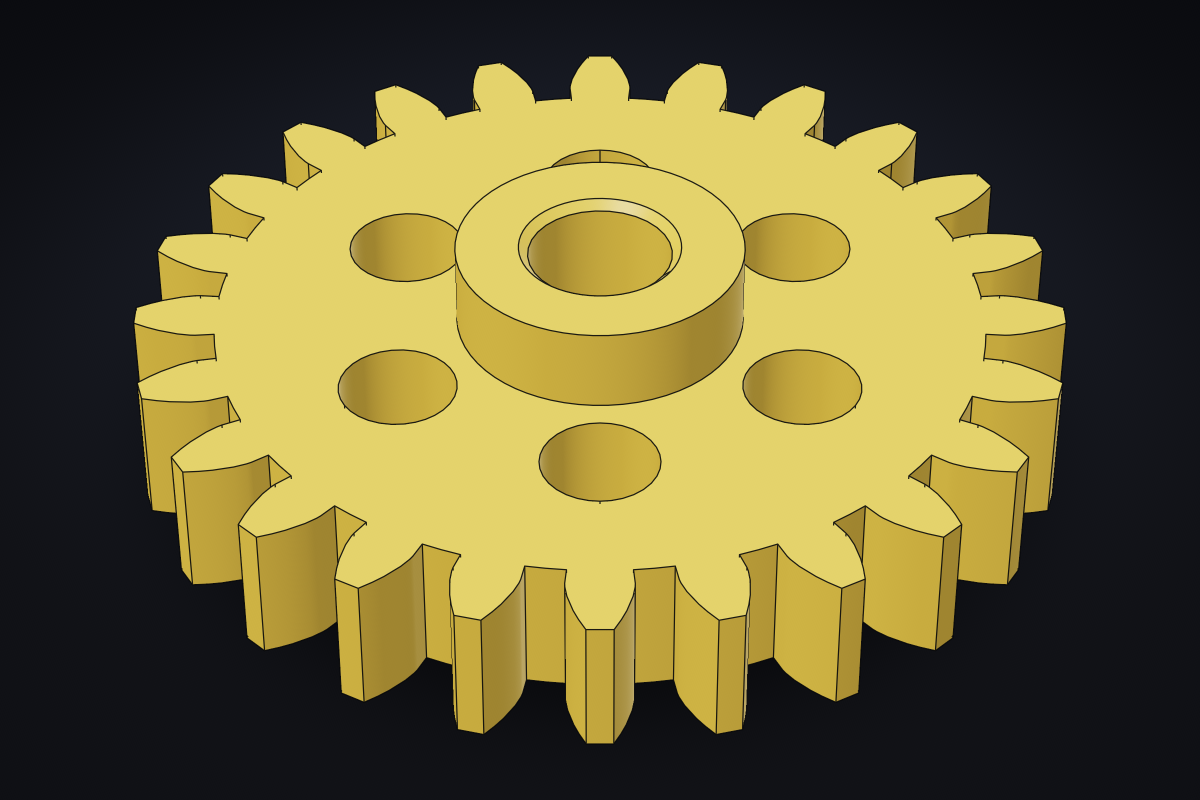
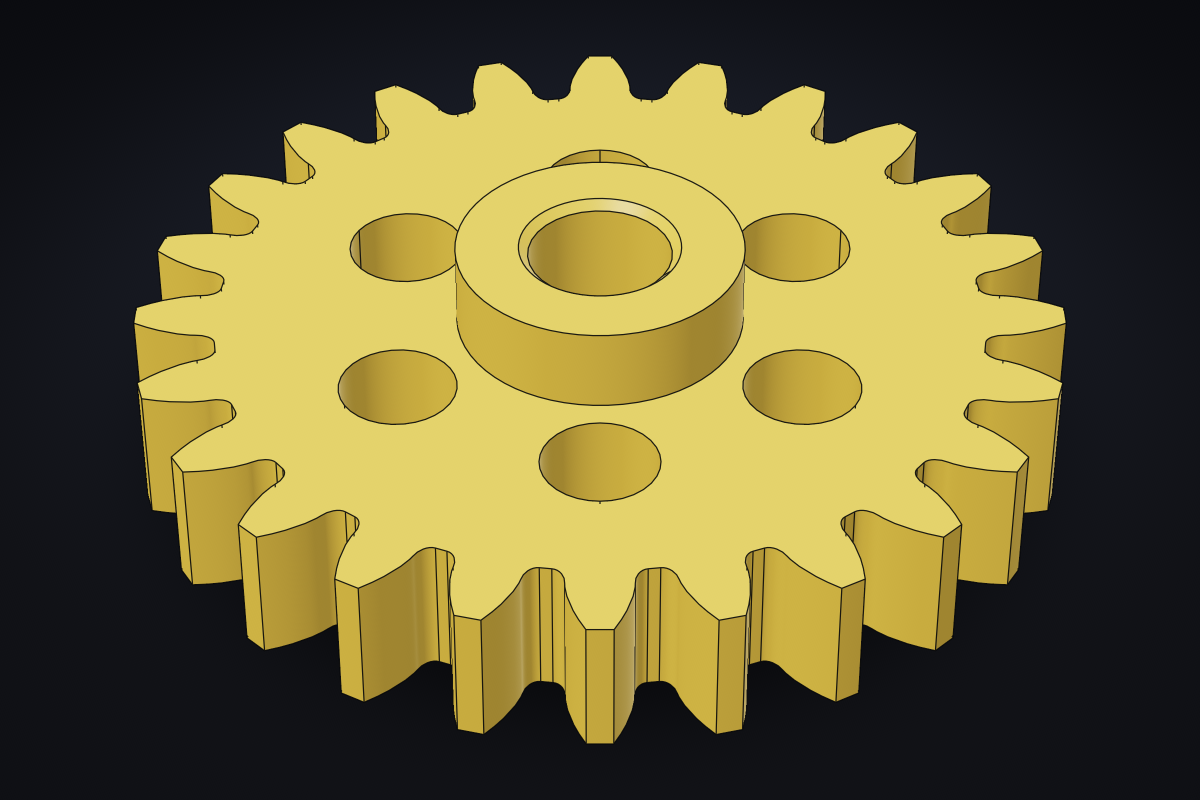
examples: involute gear with filleted roots + tooth-shape tests; renderer draws engraving rims; gallery refresh

diff --git a/examples/spur-gear.tsx b/examples/spur-gear.tsx
@@ -21,8 +21,8 @@ type Pt = [number, number]
 
 /**
  * The outline of an involute gear as SVG path data: each flank is the true involute fitted with
- * a cubic Bézier (Hermite: exact ends and tangents), joined by exact arcs along the tip and root
- * circles. Smooth flanks become single B-rep faces.
+ * a cubic Bézier (Hermite: exact ends and tangents), blended into the root circle by a tangent
+ * fillet, with exact arcs along the tip and root circles. Smooth flanks become single B-rep faces.
  */
 export function involuteGear(teeth: number, module: number, pressureDeg: number, pieces = 1): string {
   const alpha = (pressureDeg * Math.PI) / 180
@@ -59,20 +59,43 @@ export function involuteGear(teeth: number, module: number, pressureDeg: number,
     return d
   }
 
+  // Half the angular width of the gap at the root circle, and how much of it the fillets take.
+  const gapHalf = Math.PI / teeth - half
+  const phi = Math.min((0.38 * module) / rf, gapHalf * 0.7)
+  const fillet = (c: number, side: number) => {
+    const root = polar(rf, c + side * (half + phi))
+    const g = flank(c, side)
+    const top = g(t0)
+    const h = 1e-6
+    const q = g(t0 + h)
+    const dir: Pt = [(q[0] - top[0]) / h, (q[1] - top[1]) / h] // flank tangent, pointing outward
+    const dl = Math.hypot(dir[0], dir[1]) || 1
+    const L1 = phi * rf * 0.55 // along the root circle: stays inside the gap
+    // down the flank, but never below the root circle
+    const L2 = Math.min(Math.hypot(top[0] - root[0], top[1] - root[1]) * 0.4, (Math.hypot(top[0], top[1]) - rf) * 0.9)
+    const ang = c + side * (half + phi)
+    // tangent of the root circle, pointing toward the tooth
+    const tan: Pt = [side * Math.sin(ang), -side * Math.cos(ang)]
+    const c1: Pt = [root[0] + tan[0] * L1, root[1] + tan[1] * L1]
+    const c2: Pt = [top[0] - (dir[0] / dl) * L2, top[1] - (dir[1] / dl) * L2]
+    return { root, up: ` C ${P(c1)} ${P(c2)} ${P(top)}`, down: ` C ${P(c2)} ${P(c1)} ${P(root)}` }
+  }
+
   let d = ""
   for (let i = 0; i < teeth; i++) {
     const c = (2 * Math.PI * i) / teeth
     const lead = flank(c, -1), trail = flank(c, 1)
-    const start = rf < rb ? polar(rf, c - half) : lead(t0)
-    d += i === 0 ? `M ${P(start)}` : ` A ${f(rf)} ${f(rf)} 0 0 1 ${P(start)}` // root arc from the last tooth
-    if (rf < rb) d += ` L ${P(lead(t0))}` // radial line up to the base circle
+    // Root fillets: a smooth cubic from the root circle (tangent to it) up into the flank
+    // (tangent to it), so the tooth widens toward its root like a hobbed gear.
+    const fl = fillet(c, -1), fr = fillet(c, 1)
+    d += i === 0 ? `M ${P(fl.root)}` : ` A ${f(rf)} ${f(rf)} 0 0 1 ${P(fl.root)}` // root land from the last tooth
+    d += fl.up
     d += curve(lead, t0, t1)
     d += ` A ${f(ra)} ${f(ra)} 0 0 1 ${P(trail(t1))}` // tip land
     d += curve(trail, t1, t0)
-    if (rf < rb) d += ` L ${P(polar(rf, c + half))}`
+    d += fr.down
   }
-  const first = rf < rb ? polar(rf, -half) : flank(0, -1)(t0)
-  return `${d} A ${f(rf)} ${f(rf)} 0 0 1 ${P(first)} Z`
+  return `${d} A ${f(rf)} ${f(rf)} 0 0 1 ${P(fillet(0, -1).root)} Z`
 }
 
 export default function SpurGear(p: ParamValues<typeof params>) {

diff --git a/tests/export.gear.test.ts b/tests/export.gear.test.ts
@@ -1,0 +1,61 @@
+import { describe, expect, test } from "bun:test";
+import { involuteGear } from "../examples/spur-gear";
+
+/** Densely sample the M/L/C/A path data the gear example emits (arcs are taken as their endpoints). */
+function sample(d: string): [number, number][] {
+  const tok = d.match(/[MLCAZ]|-?[\d.]+(?:e-?\d+)?/g)!;
+  const pts: [number, number][] = [];
+  let cur: [number, number] = [0, 0];
+  for (let i = 0; i < tok.length; ) {
+    const c = tok[i++]!;
+    const num = () => Number(tok[i++]);
+    if (c === "M" || c === "L") pts.push((cur = [num(), num()]));
+    else if (c === "A") {
+      i += 5;
+      pts.push((cur = [num(), num()]));
+    } else if (c === "C") {
+      const p1 = [num(), num()], p2 = [num(), num()], p3: [number, number] = [num(), num()];
+      for (let s = 1; s <= 200; s++) {
+        const u = s / 200, b = [(1 - u) ** 3, 3 * u * (1 - u) ** 2, 3 * u * u * (1 - u), u ** 3];
+        pts.push([0, 1].map((j) => b[0]! * cur[j]! + b[1]! * p1[j]! + b[2]! * p2[j]! + b[3]! * p3[j]!) as [number, number]);
+      }
+      cur = p3;
+    }
+  }
+  return pts;
+}
+
+/** Chordal width of tooth 0 (centred on +X) at radius `R`, from the sampled outline. */
+function widthAt(pts: [number, number][], teeth: number, R: number): number {
+  const lim = Math.PI / teeth; // tooth 0 owns angles in ±π/z
+  const ang = pts.filter((p) => Math.abs(Math.atan2(p[1], p[0])) < lim && Math.abs(Math.hypot(p[0], p[1]) - R) < 0.02).map((p) => Math.atan2(p[1], p[0]));
+  if (ang.length < 2) return NaN;
+  return (Math.max(...ang) - Math.min(...ang)) * R;
+}
+
+describe("involute gear profile", () => {
+  for (const [teeth, module, pa] of [[24, 2, 20], [12, 2, 20], [40, 1, 20], [17, 3, 14.5]] as const) {
+    test(`z=${teeth} m=${module} α=${pa}°: πm/2 at the pitch circle, tapering to the tip`, () => {
+      const pts = sample(involuteGear(teeth, module, pa));
+      const r = (module * teeth) / 2, ra = r + module, rf = r - 1.25 * module;
+      // arc thickness at the pitch circle ≈ π·m/2 (chordal width is a hair less)
+      const s = widthAt(pts, teeth, r);
+      expect(Math.abs(s - (Math.PI * module) / 2) / ((Math.PI * module) / 2)).toBeLessThan(0.02);
+      // thickness decreases monotonically outward: over the whole tooth when there is no
+      // undercut (z ≥ 2 / sin²α), otherwise from the base circle up
+      const rb = r * Math.cos((pa * Math.PI) / 180)
+      const undercut = teeth < 2 / Math.sin((pa * Math.PI) / 180) ** 2;
+      const lo = undercut ? Math.max(rb + 0.05 * module, rf + 0.1 * module) : rf + 0.1 * module;
+      const radii = Array.from({ length: 12 }, (_, i) => lo + ((ra - 0.1 * module - lo) * i) / 11);
+      const w = radii.map((R) => widthAt(pts, teeth, R));
+      for (let i = 1; i < w.length; i++) expect(w[i]!).toBeLessThan(w[i - 1]! + 1e-3);
+      expect(w[w.length - 1]!).toBeGreaterThan(0.2 * module); // not pointed
+      // every outline point lies between the root and tip circles
+      for (const p of pts) {
+        const R = Math.hypot(p[0], p[1]);
+        expect(R).toBeGreaterThan(rf - 0.01 * module);
+        expect(R).toBeLessThan(ra + 1e-3);
+      }
+    });
+  }
+});

diff --git a/src/render/index.ts b/src/render/index.ts
@@ -464,7 +464,11 @@ export function renderImage(parts: RenderPart[], opts: RenderOptions = {}): Imag
           sharp++;
           continue;
         }
-        if (Math.abs(depth[a]! - depth[b]!) > radius * 0.05) {
+        // a step in depth across the edge (an engraving's rim, a ledge): not smooth, even when
+        // the faces on both sides are parallel. A continuous surface changes depth evenly.
+        const m0 = Math.floor(my) * SW + Math.floor(mx);
+        const pixelWorld = (ortho ? 1 : depth[m0]!) / scale;
+        if (Math.abs(depth[a]! - 2 * depth[m0]! + depth[b]!) > pixelWorld * off * 0.6 || Math.abs(depth[a]! - depth[b]!) > radius * 0.05) {
           sharp++;
           continue;
         }

diff --git a/scripts/render-examples.ts b/scripts/render-examples.ts
@@ -30,6 +30,7 @@ const VIEWS: Record<string, RenderOptions["view"]> = {
   vase: { azimuth: -58, elevation: 18 },
   "bolt-and-nut": { azimuth: -50, elevation: 20 },
   bracket: { azimuth: 55, elevation: 28 },
+  "parts-showcase": { azimuth: -60, elevation: 50 },
 };
 
 const files = readdirSync(join(root, "examples"))

diff --git a/README.md b/README.md
@@ -78,7 +78,7 @@ To add tscad to an existing bun project: `bun add tscad`, then set
 <table>
 <tr>
 <td width="50%" valign="top"><a href="examples/enclosure.tsx"><img src="docs/images/enclosure.png" alt="Enclosure"></a><br><b><a href="examples/enclosure.tsx">Enclosure</a></b> — `<assembly>` of body + lid, a `<Boss>` component, vent louvres, revolved countersinks, filleted edges</td>
-<td width="50%" valign="top"><a href="examples/spur-gear.tsx"><img src="docs/images/spur-gear.png" alt="Spur gear"></a><br><b><a href="examples/spur-gear.tsx">Spur gear</a></b> — true involute flanks as Bézier `path` data, hub, `polarPattern` lightening holes, bore chamfer by `edges.radius()`</td>
+<td width="50%" valign="top"><a href="examples/spur-gear.tsx"><img src="docs/images/spur-gear.png" alt="Spur gear"></a><br><b><a href="examples/spur-gear.tsx">Spur gear</a></b> — true involute flanks as Bézier `path` data with root fillets, `polarPattern` lightening holes, bore chamfer by `edges.radius()`</td>
 </tr>
 <tr>
 <td width="50%" valign="top"><a href="examples/bracket.tsx"><img src="docs/images/bracket.png" alt="Bracket"></a><br><b><a href="examples/bracket.tsx">Bracket</a></b> — rounded corners and an inside-bend fillet picked with combined selectors, gusset sketch, `gridPattern` holes, slots</td>
@@ -93,7 +93,11 @@ To add tscad to an existing bun project: `bun add tscad`, then set
 <td width="50%" valign="top"><a href="examples/component-library.tsx"><img src="docs/images/component-library.png" alt="Component library"></a><br><b><a href="examples/component-library.tsx">Component library</a></b> — reusable typed components (`<Standoff/>`, `<CountersunkHole/>`, `<RoundedPlate/>`) and a board table</td>
 </tr>
 <tr>
-<td width="50%" valign="top"><a href="examples/parts-showcase.tsx"><img src="docs/images/parts-showcase.png" alt="Parts library"></a><br><b><a href="examples/parts-showcase.tsx">Parts library</a></b> — the `tscad/parts` components: a NEMA 17 mount and a Raspberry Pi base with an engraved label</td>
+<td width="50%" valign="top"><a href="examples/parts-showcase.tsx"><img src="docs/images/parts-showcase.png" alt="Parts library"></a><br><b><a href="examples/parts-showcase.tsx">Parts library</a></b> — the `tscad/parts` components: a NEMA 17 mount with counterbores and a Raspberry Pi base with an engraved label</td>
+<td width="50%" valign="top"><a href="examples/sketch-link-arm.tsx"><img src="docs/images/sketch-link-arm.png" alt="Link arm"></a><br><b><a href="examples/sketch-link-arm.tsx">Link arm</a></b> — a constraint sketch: tangent lines between two bosses solved for you, every dimension a param</td>
+</tr>
+<tr>
+<td width="50%" valign="top"><a href="examples/sketch-pulley.tsx"><img src="docs/images/sketch-pulley.png" alt="V-belt pulley"></a><br><b><a href="examples/sketch-pulley.tsx">V-belt pulley</a></b> — a constraint-sketched half section kept symmetric by constraints, revolved about Z</td>
 </tr>
 </table>
 
